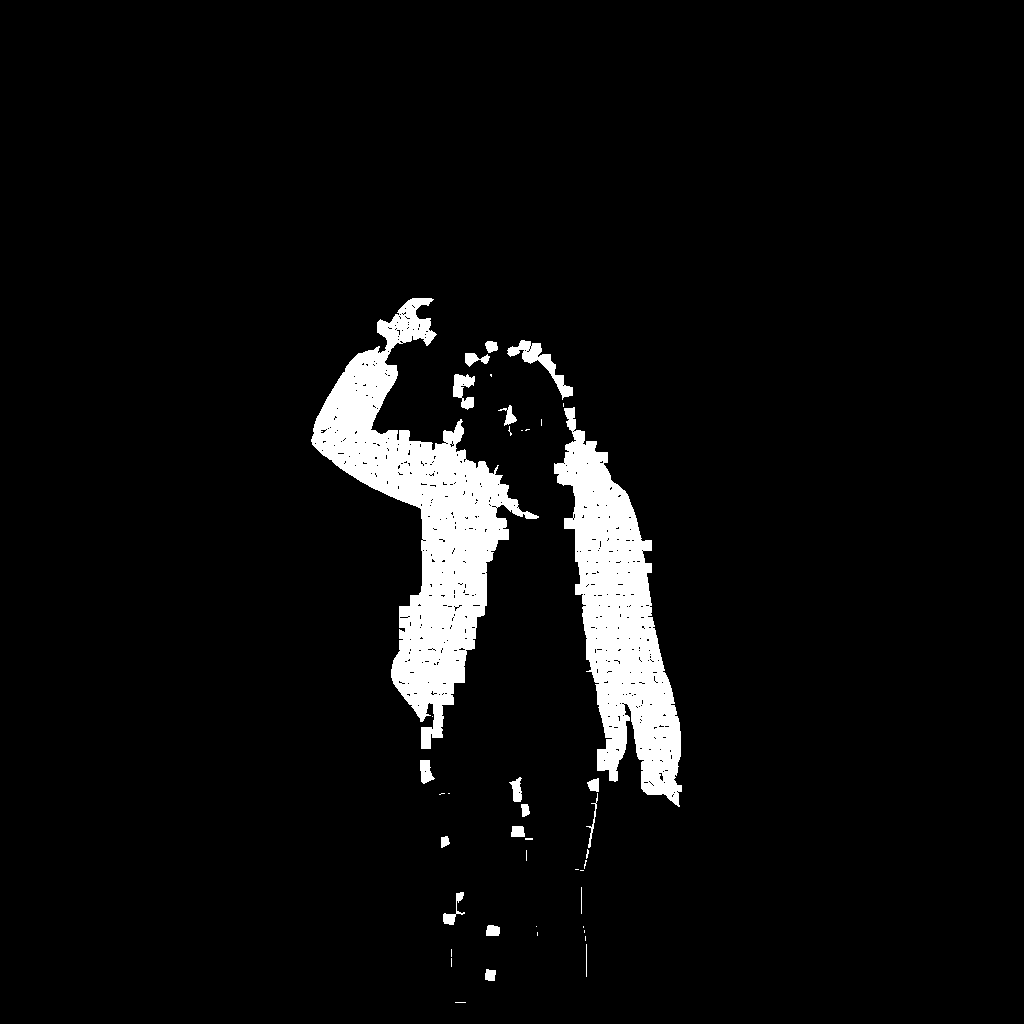
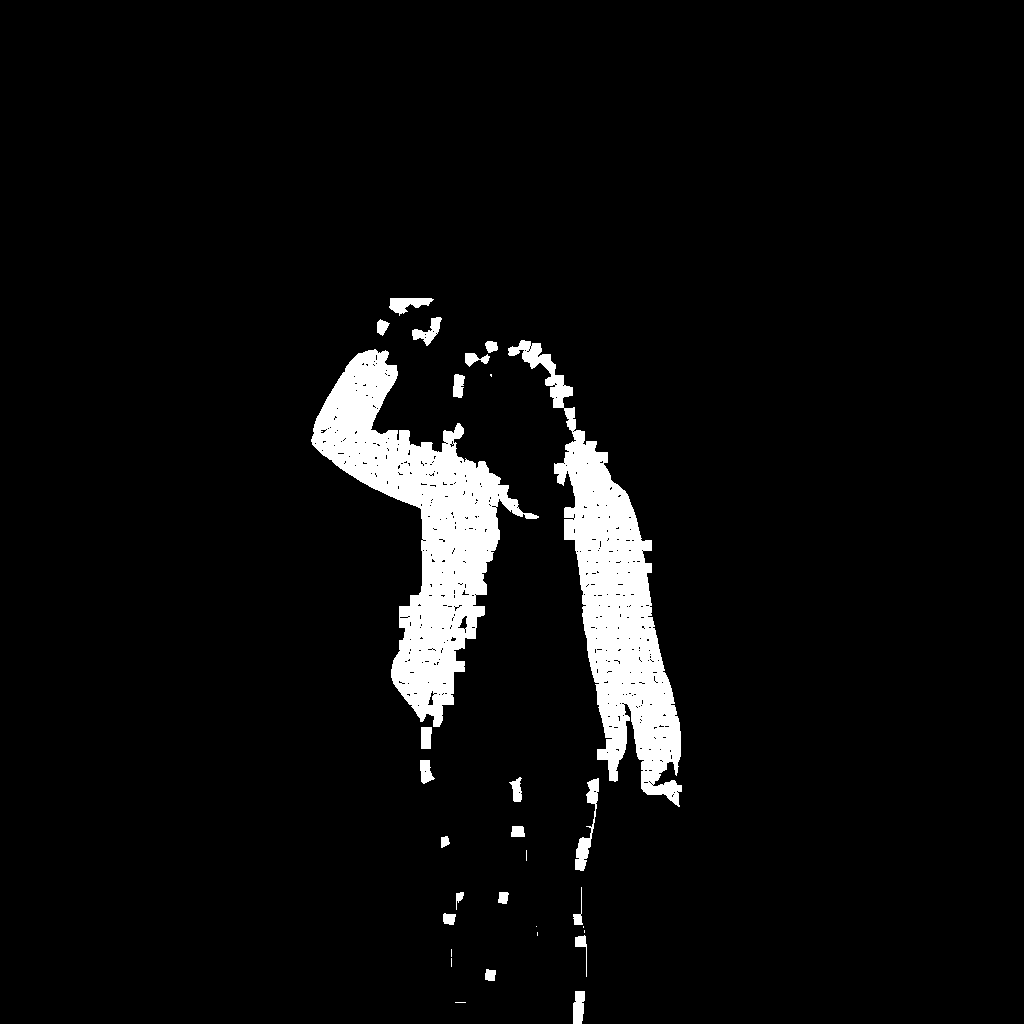
Failed 9x9 kernel diff

diff --git a/danny-mirror/super-pixels-v2/super_pixel_masking_final.py b/danny-mirror/super-pixels-v2/super_pixel_masking_final.py
@@ -43,9 +43,30 @@ def run_slic(img):
     )
 
 
+def trimmed_lab_deltaE_from_masks(orig_lab, edit_lab, mask, trim_ratio=0.05):
+    """
+    orig_lab, edit_lab: (H,W,3)
+    mask: (H,W) bool selecting pixels
+    returns scalar trimmed mean ΔE, or None if mask empty
+    """
+    idx = np.where(mask)
+    if idx[0].size == 0:
+        return None
+    ol = orig_lab[idx]
+    el = edit_lab[idx]
+    delta = np.linalg.norm(ol - el, axis=1)
+    delta_sorted = np.sort(delta)
+    k = int(len(delta_sorted) * trim_ratio)
+    if k > 0 and k < len(delta_sorted):
+        delta_trim = delta_sorted[:-k]
+    else:
+        delta_trim = delta_sorted
+    return float(delta_trim.mean())
+
+
 def main():
     parser = argparse.ArgumentParser(
-        description="Region-based diff mask from superset superpixels (color-composition only)."
+        description="Region-based diff mask from superset superpixels, using micro-kernel trimmed Lab ΔE."
     )
     parser.add_argument("original", help="path to original.png")
     parser.add_argument("edited", help="path to edited.png")
@@ -54,25 +75,26 @@ def main():
         default="super_pixel_mask.png",
         help="output mask path (default: super_pixel_mask.png)",
     )
-    # ΔE threshold ~3-6 is noticeable; tune to your data
+    # micro-kernel settings
     parser.add_argument(
-        "--lab-thresh",
-        type=float,
-        default=4.5,
-        help="mean Lab ΔE threshold to mark region as changed (default: 4.5)",
+        "--kernel-size",
+        type=int,
+        default=9,
+        help="size of micro kernel (default: 9x9)",
     )
     parser.add_argument(
-        "--pix-diff",
+        "--kernel-trim",
         type=float,
-        default=0.06,
-        help="per-pixel RGB abs-diff considered 'changed' (0..1) (default: 0.06 ≈ 15/255)",
+        default=0.05,
+        help="fraction of highest-ΔE pixels in a kernel to drop before averaging (default: 0.05 = 5%)",
     )
     parser.add_argument(
-        "--pix-ratio",
+        "--kernel-thresh",
         type=float,
-        default=0.12,
-        help="if this fraction of valid pixels exceed --pix-diff, keep region (default: 0.12 = 12%)",
+        default=8.0,
+        help="trimmed Lab ΔE on a micro kernel above this → region is considered changed (default: 8.0)",
     )
+    # fallbacks / old params
     parser.add_argument(
         "--min-area",
         type=int,
@@ -84,6 +106,18 @@ def main():
         type=int,
         default=1,
         help="dilate union alpha by this many pixels to catch border regions (default: 1)",
+    )
+    parser.add_argument(
+        "--region-trim",
+        type=float,
+        default=0.05,
+        help="trim ratio for region-level fallback ΔE (default: 0.05)",
+    )
+    parser.add_argument(
+        "--region-thresh",
+        type=float,
+        default=6.0,
+        help="trimmed Lab ΔE at region level above this → keep (used as fallback, default: 6.0)",
     )
     args = parser.parse_args()
 
@@ -126,6 +160,8 @@ def main():
     # 6) build final mask (cropped)
     keep_mask_c = np.zeros((h_c, w_c), dtype=bool)
 
+    ks = args.kernel_size
+
     for region_id in range(1, n_regions + 1):
         region_pixels = (superset_labels == region_id)
         area = np.count_nonzero(region_pixels)
@@ -134,26 +170,61 @@ def main():
 
         # only evaluate where region intersects real content
         valid_pixels = region_pixels & union_alpha_c
-        valid_count = np.count_nonzero(valid_pixels)
-        if valid_count == 0:
-            # region is outside or transparent → skip
+        if not np.any(valid_pixels):
             continue
 
-        # color composition difference: mean ΔE
-        orig_lab_vals = orig_lab[valid_pixels]
-        edit_lab_vals = edit_lab[valid_pixels]
-        delta_lab = np.linalg.norm(orig_lab_vals - edit_lab_vals, axis=1)
-        mean_delta = float(delta_lab.mean())
+        # get bounding box of the region to limit kernel loops
+        ys, xs = np.where(region_pixels)
+        rymin, rymax = ys.min(), ys.max()
+        rxmin, rxmax = xs.min(), xs.max()
 
-        # also: what fraction of pixels changed a lot in plain RGB?
-        orig_rgb_vals = orig_c[valid_pixels]
-        edit_rgb_vals = edit_c[valid_pixels]
-        per_pix_diff = np.abs(orig_rgb_vals - edit_rgb_vals).mean(axis=1)  # (N,)
-        changed_ratio = float(np.count_nonzero(per_pix_diff >= args.pix_diff)) / valid_count
+        # track if ANY kernel inside this region is different
+        region_is_changed = False
 
-        # decide to keep
-        if (mean_delta >= args.lab_thresh) or (changed_ratio >= args.pix_ratio):
-            # fill WHOLE REGION, not just valid pixels
+        # slide kernels over the region bbox
+        for y0 in range(rymin, rymax + 1, ks):
+            if region_is_changed:
+                break
+            y1 = min(y0 + ks, h_c)
+            for x0 in range(rxmin, rxmax + 1, ks):
+                x1 = min(x0 + ks, w_c)
+
+                # kernel mask = this region AND this kernel AND content
+                kernel_mask = (
+                    region_pixels[y0:y1, x0:x1] & union_alpha_c[y0:y1, x0:x1]
+                )
+                if not np.any(kernel_mask):
+                    continue
+
+                # compute trimmed ΔE for this kernel
+                ol = orig_lab[y0:y1, x0:x1, :]
+                el = edit_lab[y0:y1, x0:x1, :]
+
+                idx = np.where(kernel_mask)
+                ol_sel = ol[idx]
+                el_sel = el[idx]
+                delta = np.linalg.norm(ol_sel - el_sel, axis=1)
+                delta_sorted = np.sort(delta)
+                ktrim = int(len(delta_sorted) * args.kernel_trim)
+                if ktrim > 0 and ktrim < len(delta_sorted):
+                    delta_trim = delta_sorted[:-ktrim]
+                else:
+                    delta_trim = delta_sorted
+                kernel_score = float(delta_trim.mean())
+
+                if kernel_score > args.kernel_thresh:
+                    region_is_changed = True
+                    break
+
+        # fallback: region-level trimmed ΔE (for tiny regions < kernel size)
+        if not region_is_changed:
+            region_score = trimmed_lab_deltaE_from_masks(
+                orig_lab, edit_lab, valid_pixels, trim_ratio=args.region_trim
+            )
+            if region_score is not None and region_score > args.region_thresh:
+                region_is_changed = True
+
+        if region_is_changed:
             keep_mask_c[region_pixels] = True
 
     # 7) paste back to full-size
